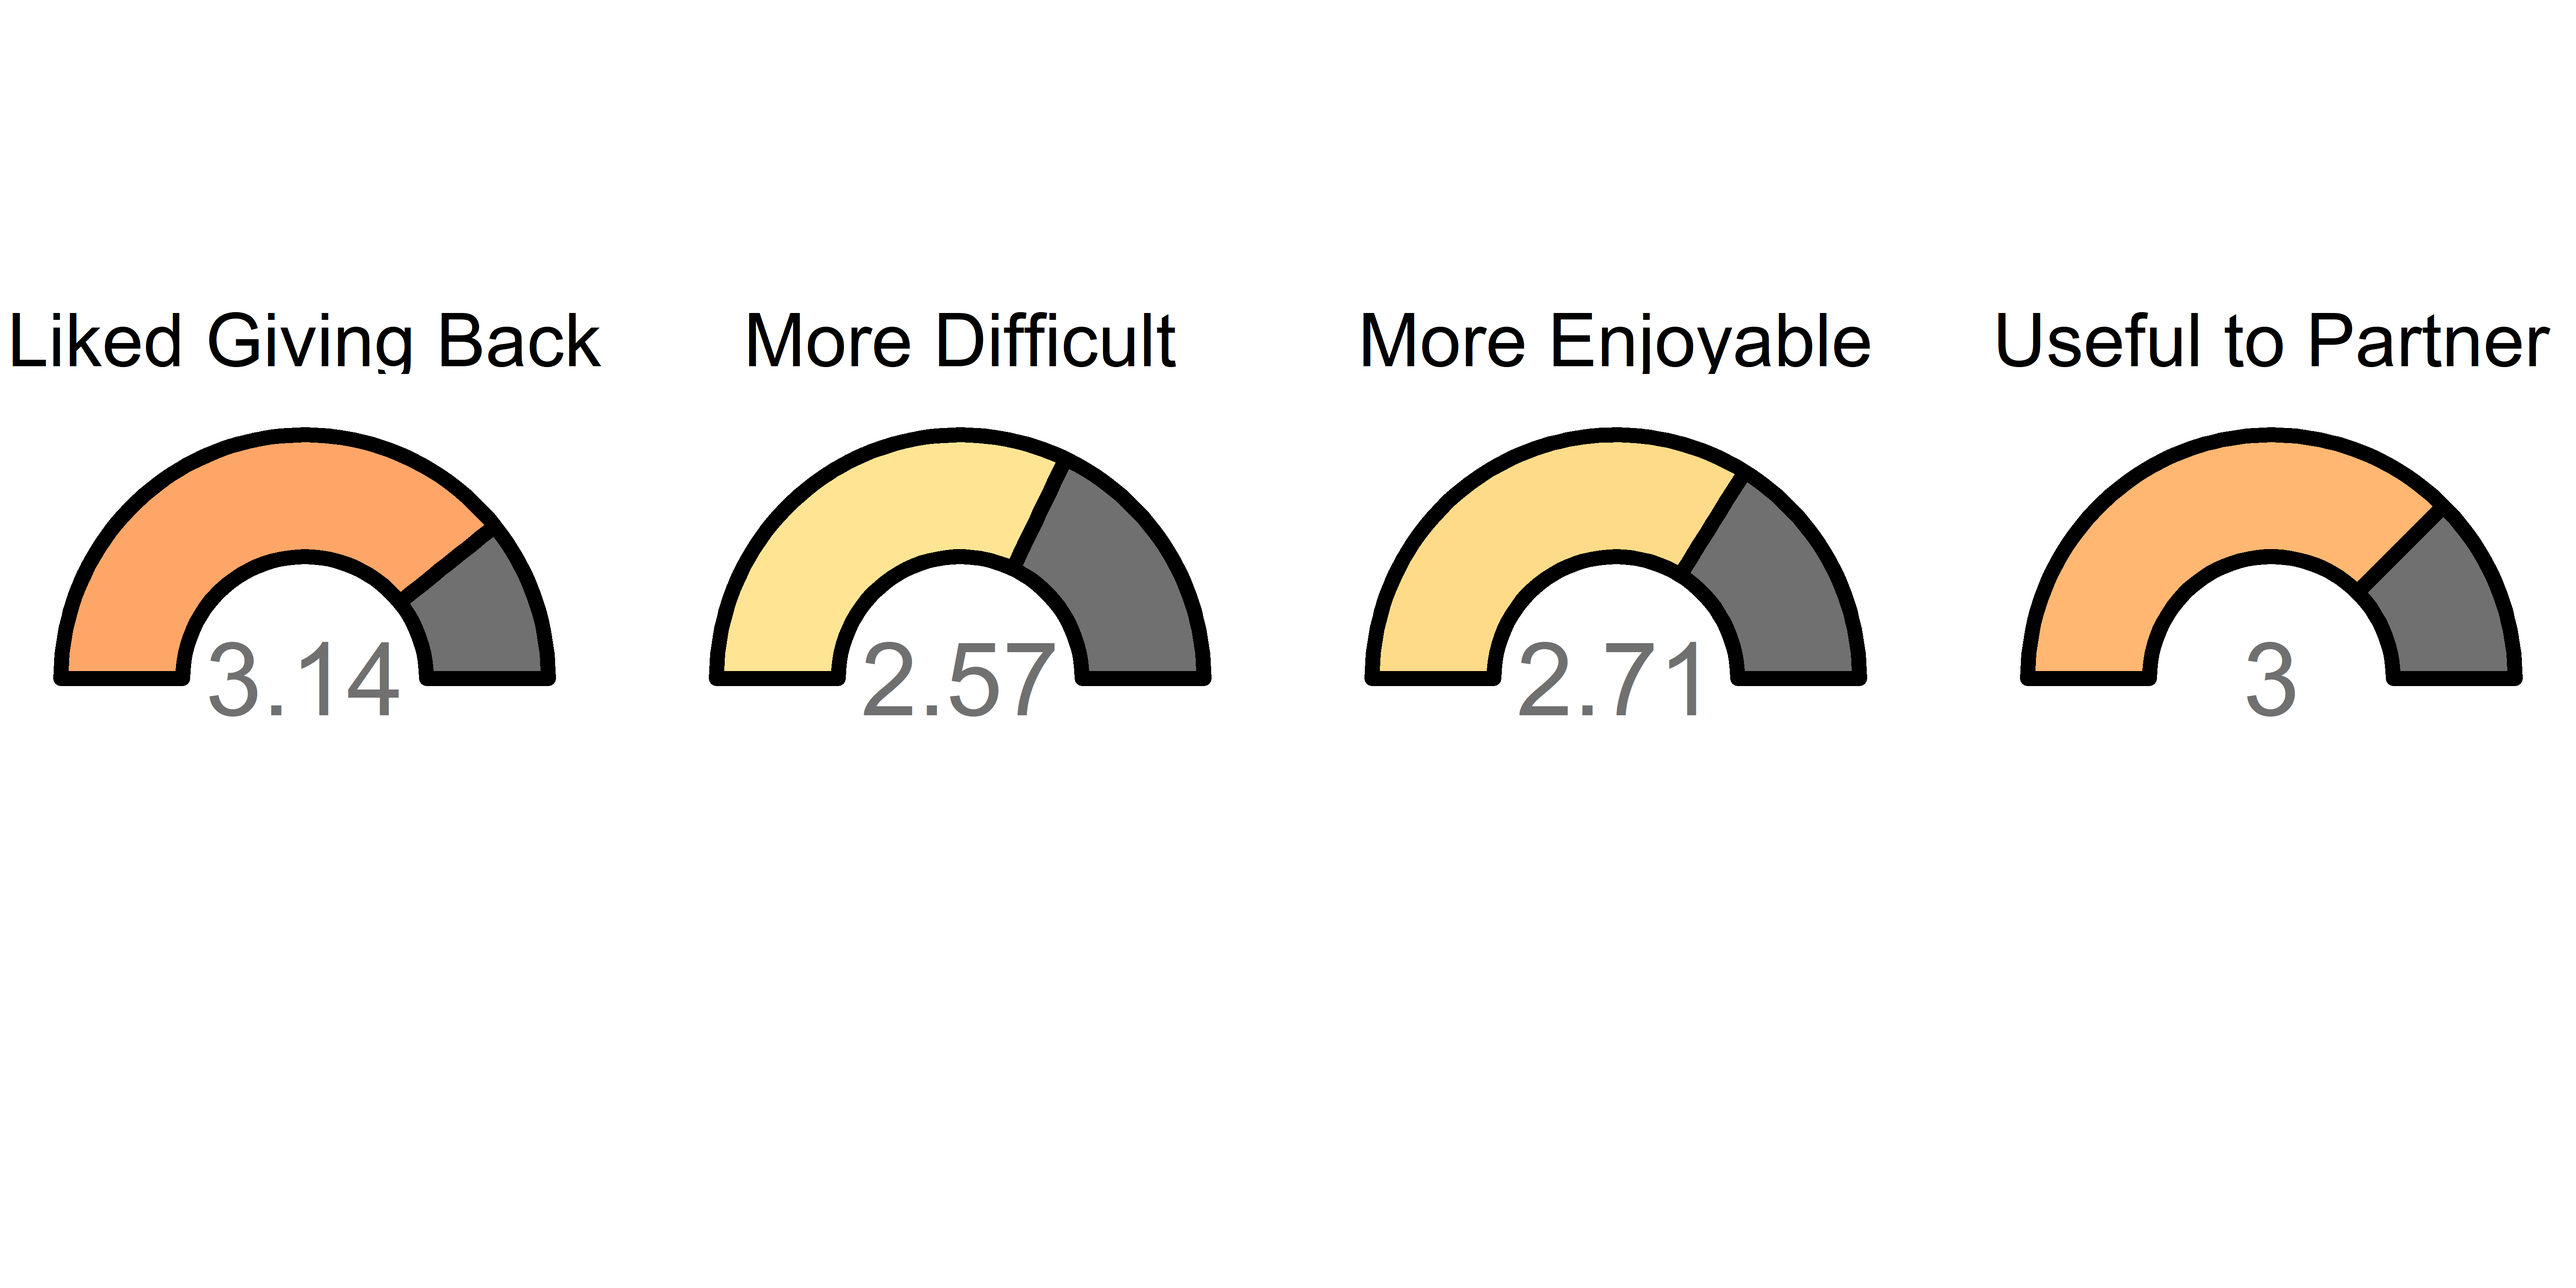
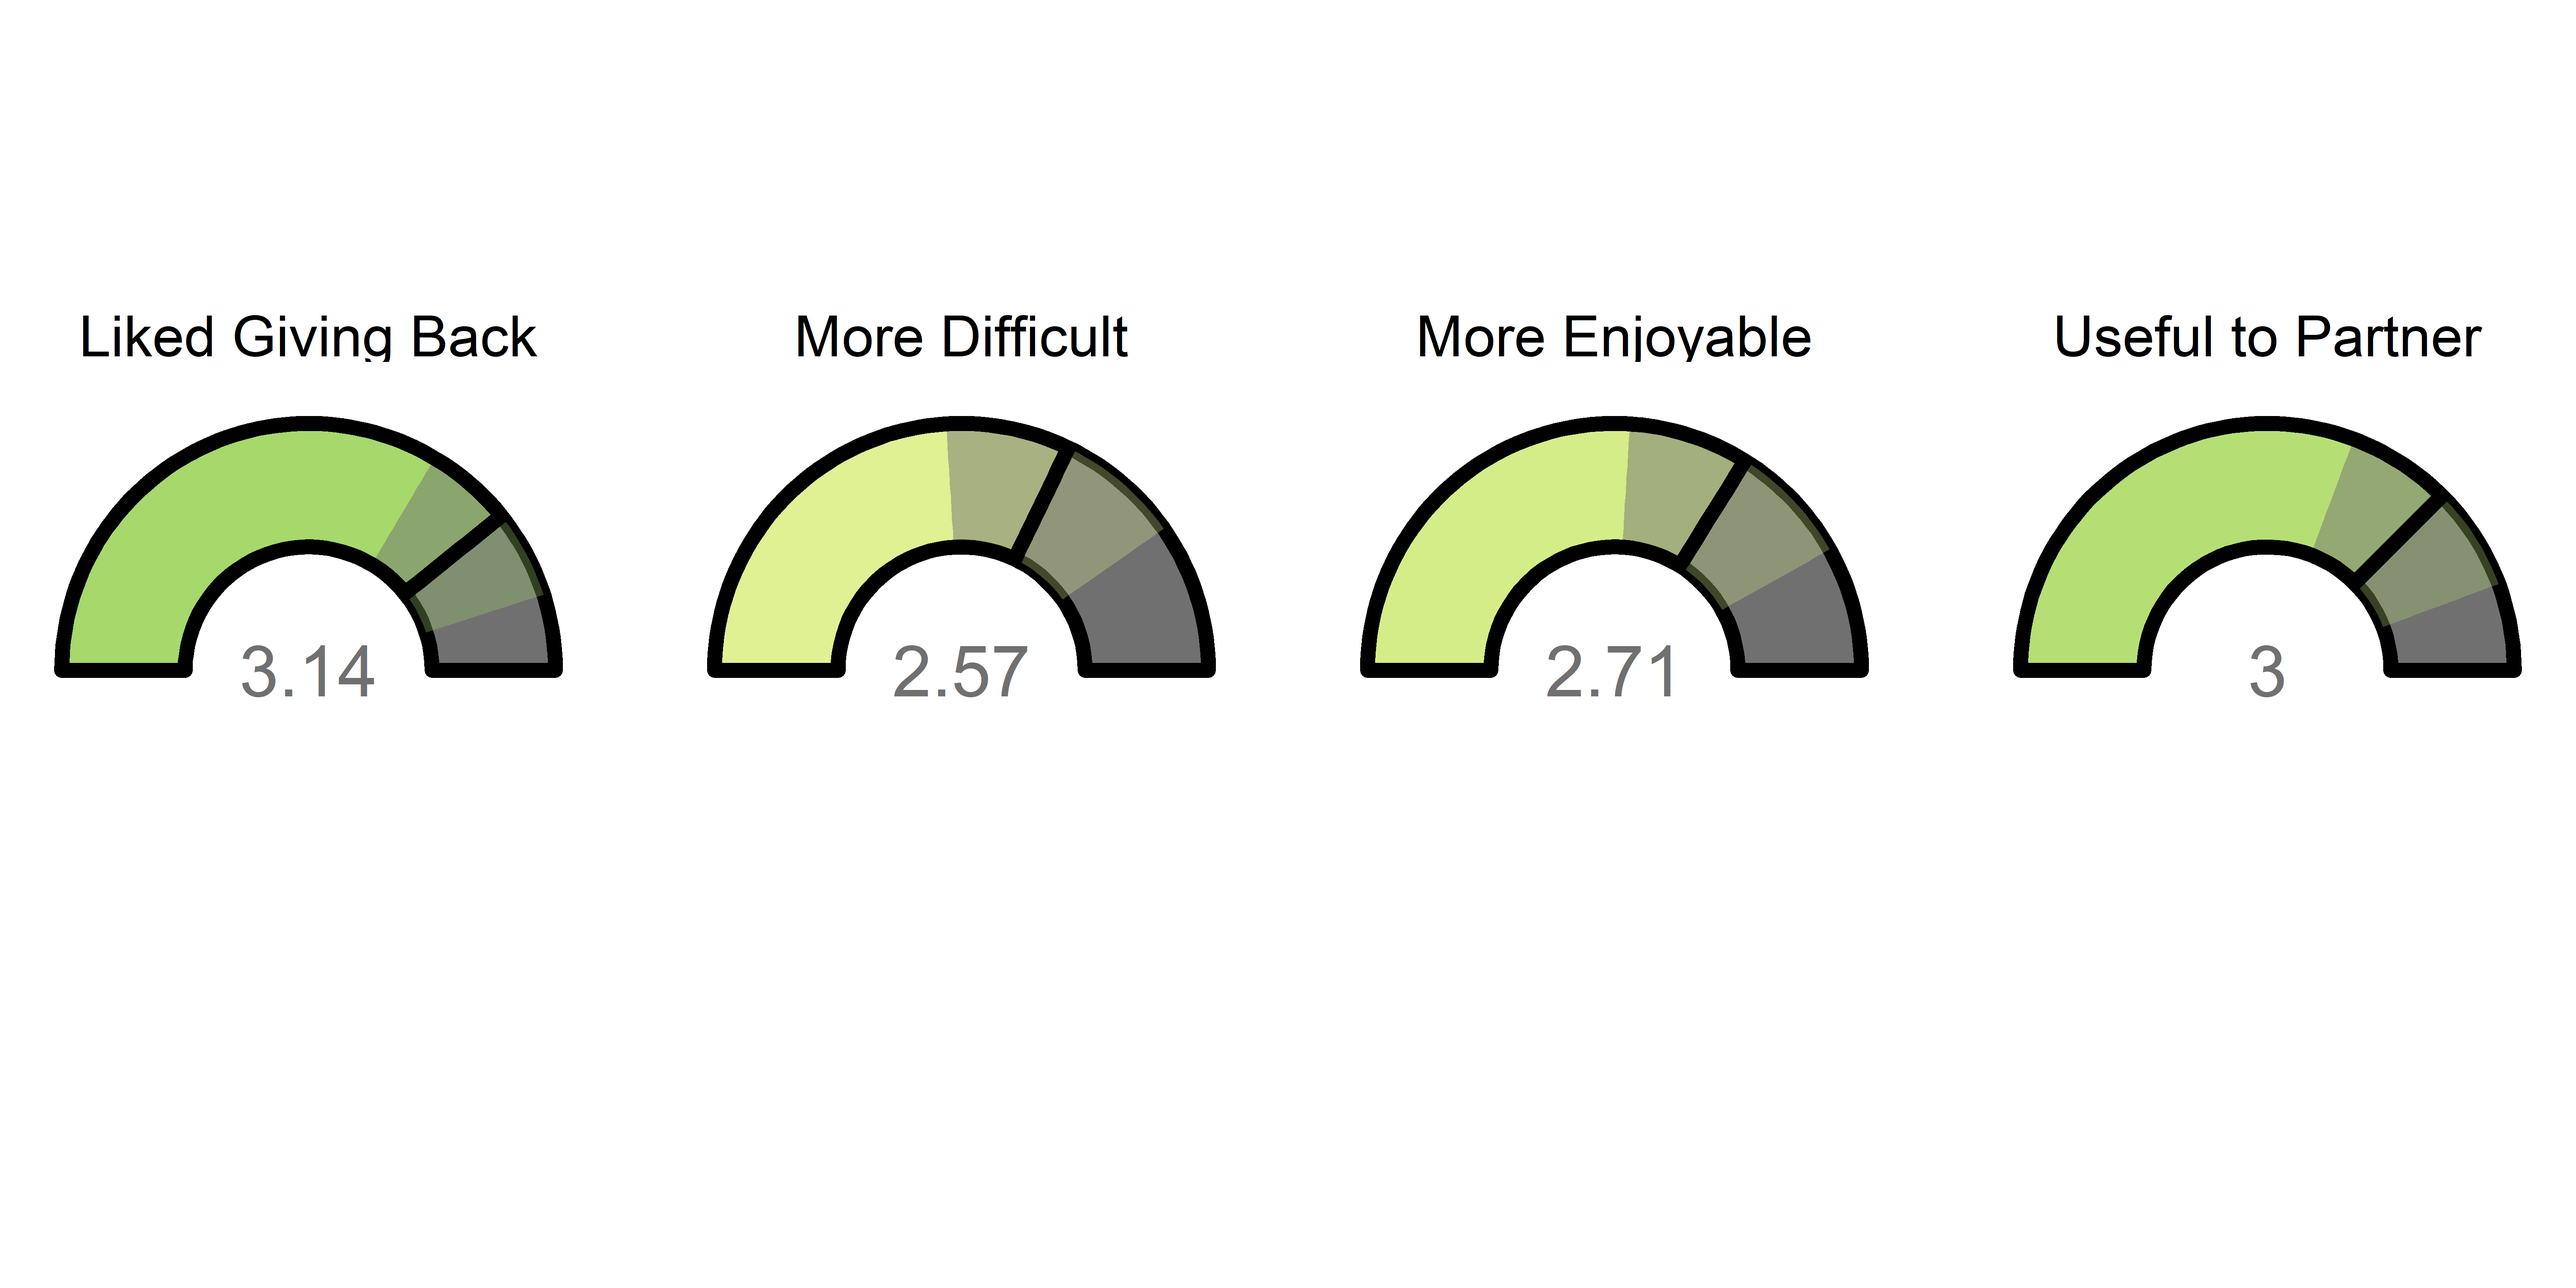
complete slide deck

diff --git a/slides.html b/slides.html
@@ -100,7 +100,7 @@ Thanks to:
 &lt;br&gt;
 &lt;br&gt;
 &lt;br&gt;
-*images: mfviz.com/hierarchical-models, knowledgebase.aridhia.com/article/logistic-regression/*
+*images: mfviz.com/hierarchical-models, overstock.com, knowledgebase.aridhia.com/article/logistic-regression/*
 
 ---
 
@@ -121,7 +121,7 @@ Thanks to:
 &lt;br&gt;
 &lt;br&gt;
 &lt;br&gt;
-*images: mfviz.com/hierarchical-models, knowledgebase.aridhia.com/article/logistic-regression/*
+*images: mfviz.com/hierarchical-models, overstock.com, knowledgebase.aridhia.com/article/logistic-regression/*
 
 ---
 
@@ -138,7 +138,7 @@ Thanks to:
 &lt;/p&gt;
 
 &lt;br&gt;
-*images: mfviz.com/hierarchical-models, knowledgebase.aridhia.com/article/logistic-regression/*
+*images: mfviz.com/hierarchical-models, overstock.com, knowledgebase.aridhia.com/article/logistic-regression/*
 ---
 
 # Applied Regression; or, GLMs &amp; Friends
@@ -266,7 +266,7 @@ class: inverse middle center big-subsection
 
 # Students: Difficulty of Tasks
 
-&lt;img src="slides_files/figure-html/unnamed-chunk-5-1.png" height="80%" style="display: block; margin: auto;" /&gt;
+&lt;img src="slides_files/figure-html/unnamed-chunk-5-1.png" width="95%" style="display: block; margin: auto;" /&gt;
 
 
 
@@ -286,7 +286,31 @@ class: inverse middle center big-subsection
 
 # Partner Survey (n = 7, 50%)
 
-- need to fill in results and details here
+## Motivation: They do it for us!
+
+&lt;img src="slides_files/figure-html/unnamed-chunk-7-1.png" style="display: block; margin: auto;" /&gt;
+
+---
+
+# Partner Experience
+
+## How Useful were Results?
+
+&lt;img src="slides_files/figure-html/unnamed-chunk-8-1.png" style="display: block; margin: auto;" /&gt;
+
+---
+
+# Some Reflections
+
+- Gratitude to partners
+- Incredible learning opportunity
+- Build connection and community
+- Weak business plan
+  - Time constraints
+  - Division of attention: normal course content, project
+- Practice learning *by doing* in community; not learn, *then* do
+- Experience "real" statistical process
+
 
 
 
@@ -317,7 +341,7 @@ class: inverse middle center big-subsection
 - Projects yield 
   - motivation + struggle
   - success if viz and models *communicate clearly*
-  - big-picture thinking
+  - practice, internalize statistical process
   - connections across the curriculum
 - It’s not (too) hard to mastermind
 
